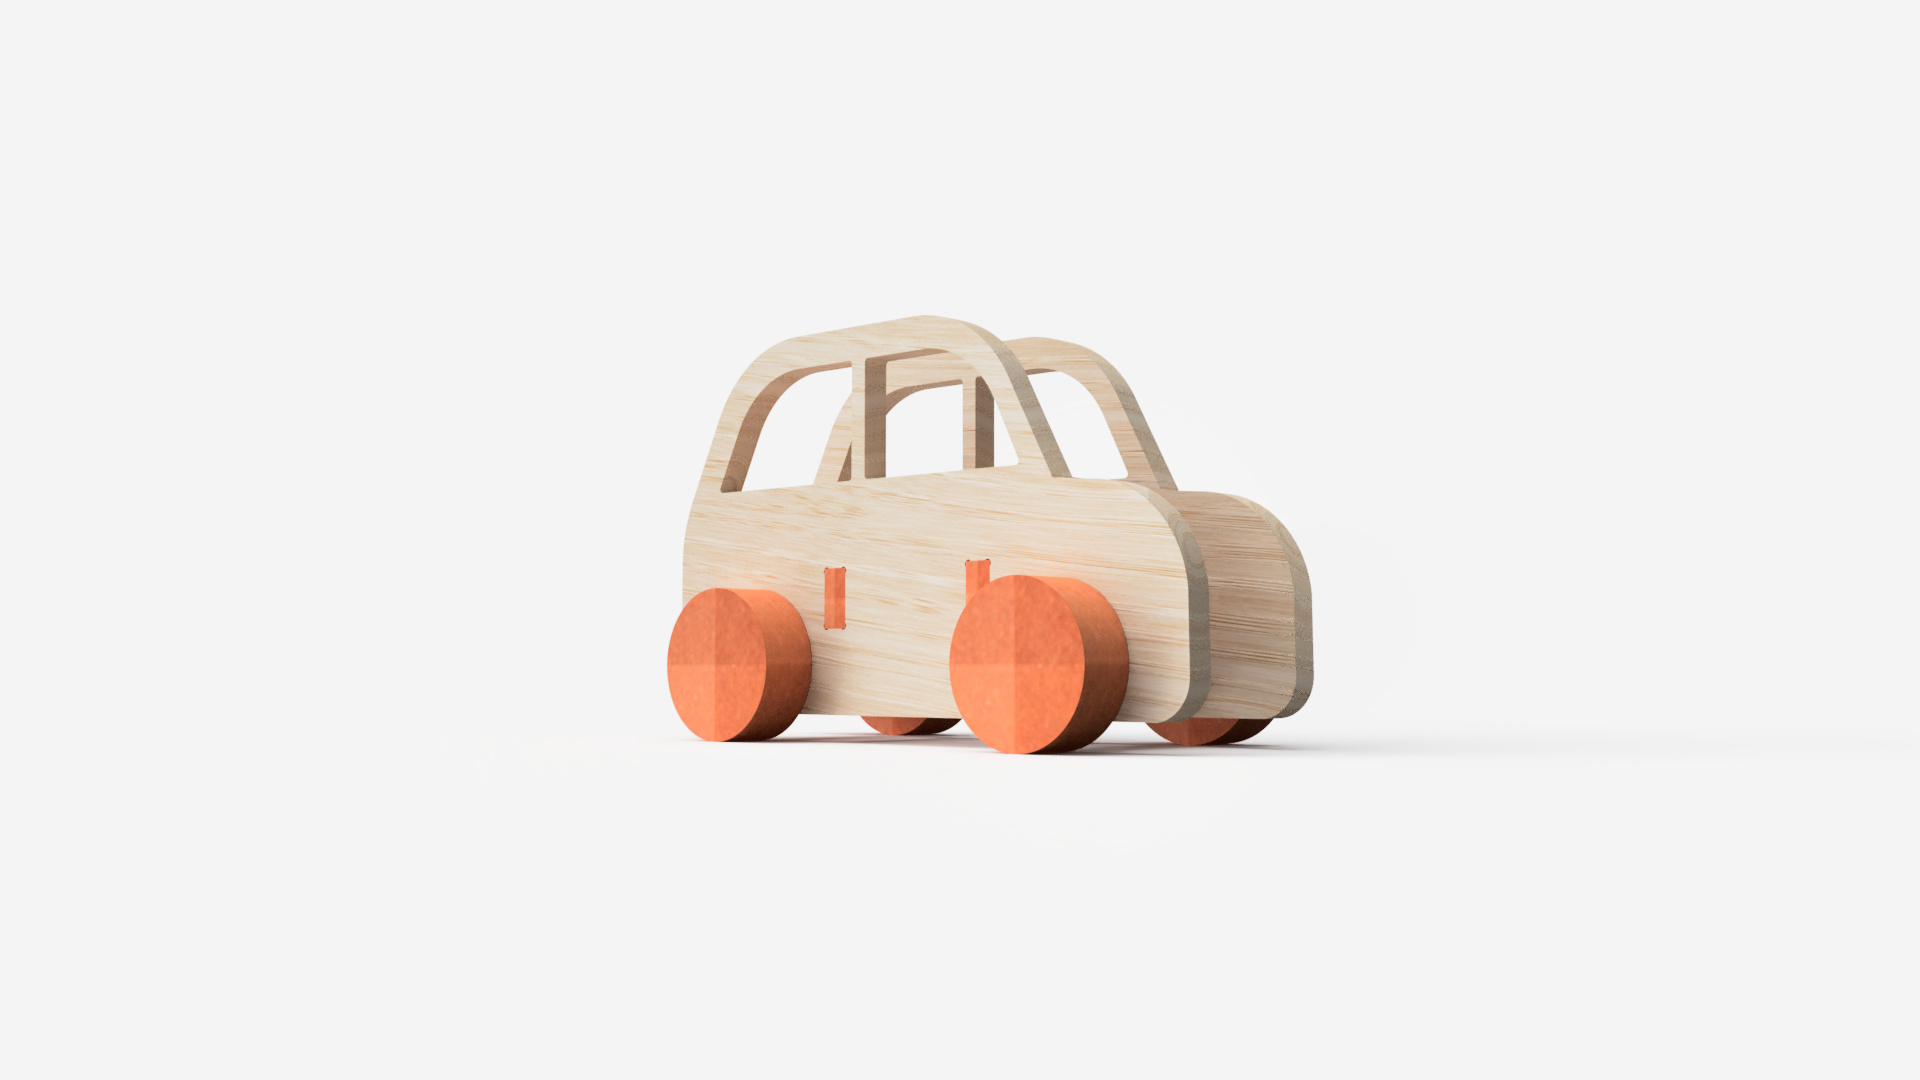
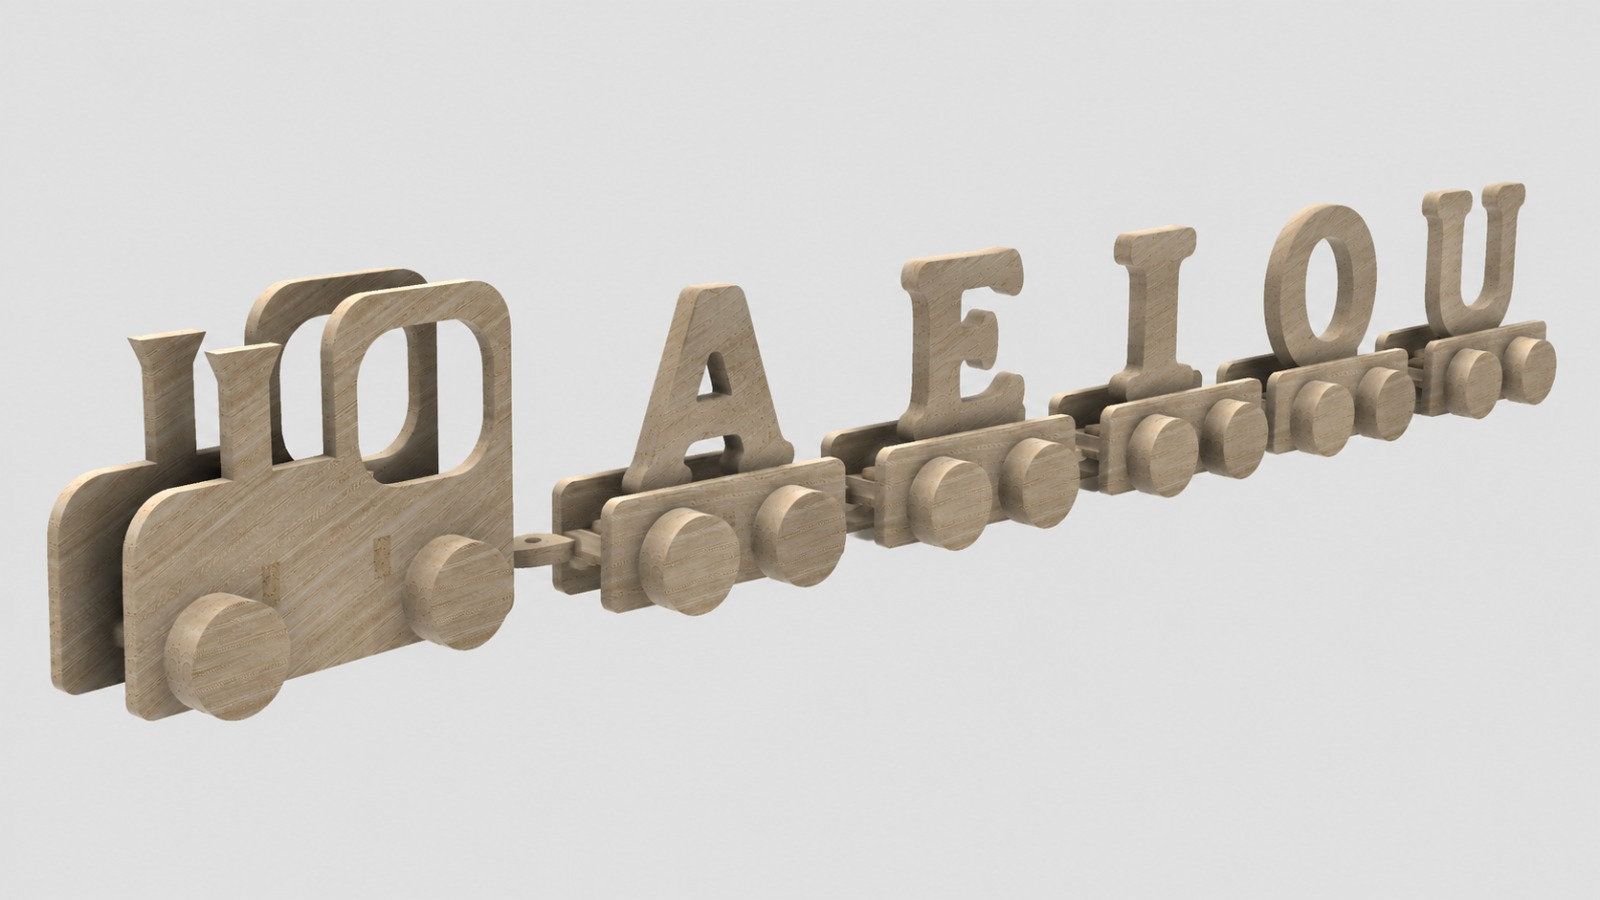
varios

Changed region(s): [[0.0, 0.1867, 1.0, 0.8089]]

diff --git a/produtos/Comboio das vogais/processo.md b/produtos/Comboio das vogais/processo.md
@@ -14,41 +14,13 @@ published: true
 
 # Processo
 
-> Organizado do **mais recente** para o **mais antigo**. Faz uma seleção que torne clara, aprazível e detalhada a evolução do produto e das ideias.
-
-## 1. Protótipo(s)
-
-Fotografias em estúdio com fundo branco do(s) protótipo(s) final(is).
-
-![Protótipo final](attachments/placeholder.png)
-![](attachments/placeholder.png)
-
-## 2. Processo de Prototipagem
-
-Maquinação CNC, montagem, acabamentos pontuais. 
-
-![](attachments/placeholder.png)
-
-
-## 3. Protótipos Exploratórios
-
-Testes CNC prévios, ensaios em escala, experiências de juntas/encaixes.
-
-![](attachments/placeholder.png)
-
-## 4. Modelos 3D
+## 1. Modelos 3D
 
 Embed do Fusion (visualização do modelo paramétrico).
 
 https://a360.co/4nqYoPa
 
-## 5. Outros Modelos
-
-Modelos físicos exploratórios, em cartão, espuma, madeira de teste.
-
-![](attachments/placeholder.png)
-
-## 6. Esboços e Pranchas-Resumo
+## 2. Esboços e Pranchas-Resumo
 
 Desenhos manuais, 
 pranchas A3 de síntese, 
@@ -56,18 +28,20 @@ exploração de variantes.
 
 ![](attachments/placeholder.png)
 
-## 7. Pesquisa
+## 3. Pesquisa
 
-### 7.1. Aspectos valorizados do moodboard, desconstrução da forma (o que distingue o programa formal)
+### 3.1. Aspectos valorizados do moodboard, desconstrução da forma (o que distingue o programa formal)
 
 ![](attachments/placeholder.png)
 
-### 7.2. Objetos de referencia
+### 3.2. Objetos de referencia
 
 Inventário de precedentes, brinquedos análogos, referências históricas.
 
-![](attachments/placeholder.png)
+![](attachments/referencia.png)
+>**Comboios de madeira** – A estrutura modular do comboio e a utilização de formas simples em madeira inspiraram o desenvolvimento da solução final, evidenciando a componente lúdica, a ligação entre as diferentes peças e a facilidade de manipulação por parte da criança. 
+  **Brinquedos de encaixe de vogais** – A aprendizagem das vogais através da manipulação direta das peças influenciou a criação de uma experiência educativa baseada na exploração, no reconhecimento das letras e na associação entre brincar e aprender.
 
-## 9. Outros Elementos
+## 4. Outros Elementos
 
 Outros materiais relevantes para a preparação do conceito (entrevistas, observação, testes com utilizadores, notas, leituras, inspirações).

diff --git a/produtos/Comboio das vogais/index.md b/produtos/Comboio das vogais/index.md
@@ -1,11 +1,11 @@
 ---
-title: Nome do Produto
+title: Comboio das vogais
 icon: lucide/box
 tags: galeria
 status: not-started
 hero_image: attachments/hero.jpg
-hero_title: Nome do Produto
-hero_subtitle: Nome do Aluno · 2025-26
+hero_title: Comboio das vogais
+hero_subtitle: Juliana Silva · 2025-26
 hero_height: 80vh
 hero_overlay: 0.25
 hero_align: center
@@ -14,7 +14,7 @@ student_name: Montessori
 student_number: ""
 ---
 
-# Nome do Produto
+# Comboio das vogais
 
 <!--
   HERO: idealmente uma pseudo-sessão fotográfica do produto
@@ -22,31 +22,54 @@ student_number: ""
   /Recursos/AI_exps/). Usa attachments/hero.jpg para o frontmatter.
 -->
 
-> Frase-conceito (uma linha): qual é a proposta?
+> Letras que despertam imaginação.
 
 A página deve tornar **visualmente percetível** a estratégia de resposta ao enunciado.
 Segue a estrutura de **prancha-resumo** + **esquema-base** (C-E-T-F).
 
 ## Conceito
 
-Ideia central do produto. O que é, para quem, porquê.
+O comboio de vogais é um brinquedo educativo em madeira que procura introduzir as crianças ao reconhecimento e à sequência das vogais através de uma experiência simples e lúdica. Constituído por uma locomotiva e cinco carruagens identificadas com as vogais, o brinquedo desafia a criança a organizá-las pela ordem correta, podendo depois ser utilizado como um comboio convencional, incentivando o brincar livre e imaginativo.
 
-![](attachments/placeholder.png)
+Pensado para crianças em idade pré-escolar, o objeto acompanha uma fase importante do desenvolvimento linguístico, em que a aprendizagem das primeiras letras começa a ganhar significado. A manipulação das peças contribui também para o desenvolvimento da coordenação motora, da perceção visual e da capacidade de associação.
 
+Este projeto nasce da ideia de tornar o processo de aprendizagem das vogais mais dinâmico e apelativo, afastando-se de métodos exclusivamente teóricos e proporcionando um contacto direto com as letras através do jogo. Ao combinar uma componente educativa com uma função de entretenimento, o brinquedo transforma a aprendizagem num momento de descoberta e diversão.
+
+![](attachments/placeholder.jpeg)
+>**Renderização Fusion 360**
 ## Enquadramento
+
+O presente projeto insere-se no universo dos brinquedos educativos baseados na metodologia Montessori, onde a aprendizagem ocorre através da exploração autónoma, da experimentação e da interação direta com o objeto. Neste contexto, o brinquedo é pensado como uma ferramenta que acompanha o ritmo da criança, permitindo-lhe descobrir e consolidar conhecimentos através da experiência prática.
+
+A partir da análise de diferentes referências e brinquedos educativos, foram identificadas características como a simplicidade formal, a manipulação de elementos independentes e a associação entre objetos e conceitos de aprendizagem. Estes aspetos orientaram o desenvolvimento do comboio de vogais, uma proposta que relaciona o reconhecimento e a ordenação das letras com uma experiência lúdica, promovendo simultaneamente a autonomia, a curiosidade e o desenvolvimento de competências cognitivas e motoras.
+
 
 Posicionamento em relação ao contexto de grupo (ver [contexto](../../contexto.md)) e à recolha de objetos a redesenhar.
 
 ## Tecnologia
 
-Materiais (espécie de madeira), processos de fabrico (CNC, laser, impressão 3D), software paramétrico, ficheiros técnicos.
+O brinquedo foi concebido em madeira de carvalho, material escolhido pela sua resistência, durabilidade e pelas suas características naturais, proporcionando um objeto robusto e adequado à utilização infantil. A opção por utilizar apenas o acabamento natural da madeira valoriza a sua textura e simplicidade formal, em concordância com os princípios dos brinquedos educativos inspirados na metodologia Montessori.
+A estrutura do comboio, incluindo a locomotiva, as carruagens e as vogais integradas em cada uma delas, foi projetada para ser produzida através de corte CNC em placas de madeira com espessuras compreendidas entre os 10 mm e os 15 mm. As ligações entre as carruagens são realizadas através de encaixes de madeira, permitindo a montagem e reorganização das peças de forma simples e intuitiva.
+O desenvolvimento técnico foi realizado no Autodesk Fusion 360, recorrendo à modelação paramétrica para definir as geometrias, ajustar as dimensões das peças, garantir o correto funcionamento dos encaixes e testar virtualmente a composição do produto. Foram ainda considerados aspetos ergonómicos, como a inclusão de cantos arredondados e dimensões adequadas ao manuseamento por crianças, assegurando uma experiência de utilização confortável e apropriada ao público-alvo.
 
 - Modelo 3D: <!-- embed Fusion ou link a360.co -->
 - Ficheiros: `attachments/`
 
 ## Função
 
-Como se brinca, idade-alvo, montagem, conformidade com a Diretiva 2009/48/CE.
+O comboio de vogais apresenta uma função educativa centrada na introdução às primeiras letras e no reconhecimento da sequência correta das vogais. Através da manipulação das carruagens e da sua organização, o brinquedo estimula a memória, a associação visual, a coordenação motora fina e o desenvolvimento das competências linguísticas iniciais, conciliando a aprendizagem com a brincadeira livre.
+
+**Como se brinca?** O brinquedo pode ser explorado de duas formas principais:
+
+**Sequência das vogais** – A criança deve identificar cada vogal e organizar as carruagens pela ordem correta (A, E, I, O, U), formando o comboio completo. Esta atividade promove o reconhecimento das letras, a memorização da sua sequência e a capacidade de associação.
+
+**Brincadeira livre** – Depois de concluída a sequência, o comboio pode ser utilizado como um brinquedo tradicional, permitindo à criança deslocá-lo, criar narrativas e explorar diferentes situações imaginárias, incentivando a criatividade e o jogo simbólico.
+
+**Idade-alvo** – O brinquedo destina-se a crianças com idade igual ou superior a 5 anos, período em que o contacto com as letras, a linguagem e a manipulação de objetos educativos assume um papel importante no seu desenvolvimento.
+
+**Montagem** – O brinquedo é composto por uma locomotiva e cinco carruagens independentes, ligadas através de um sistema de encaixe em madeira. A sua montagem é simples e intuitiva, permitindo que a própria criança una as peças e reorganize as carruagens sempre que desejar.
+
+**Conformidade com a Diretiva 2009/48/CE** – No desenvolvimento do produto foram considerados os princípios gerais estabelecidos na Diretiva 2009/48/CE relativa à segurança dos brinquedos. A escolha da madeira de carvalho, a presença de cantos arredondados, a ausência de arestas cortantes e a definição de dimensões adequadas à utilização infantil contribuem para uma experiência de utilização segura e apropriada ao público-alvo.
 
 ## Apresentação
 